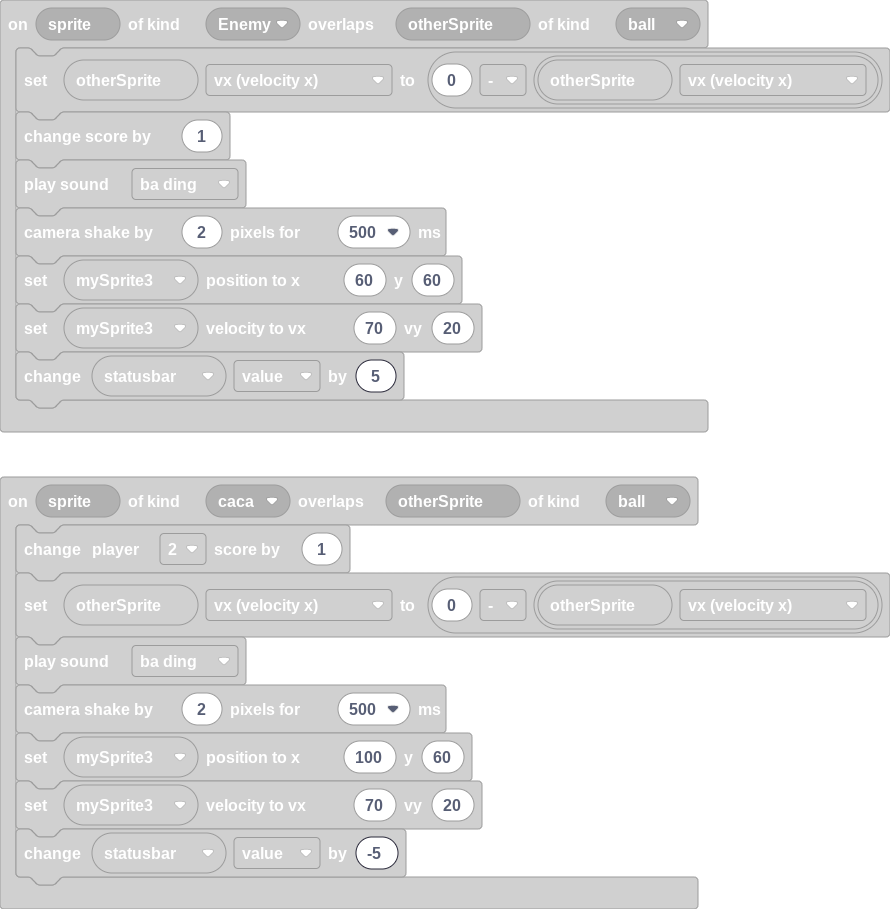
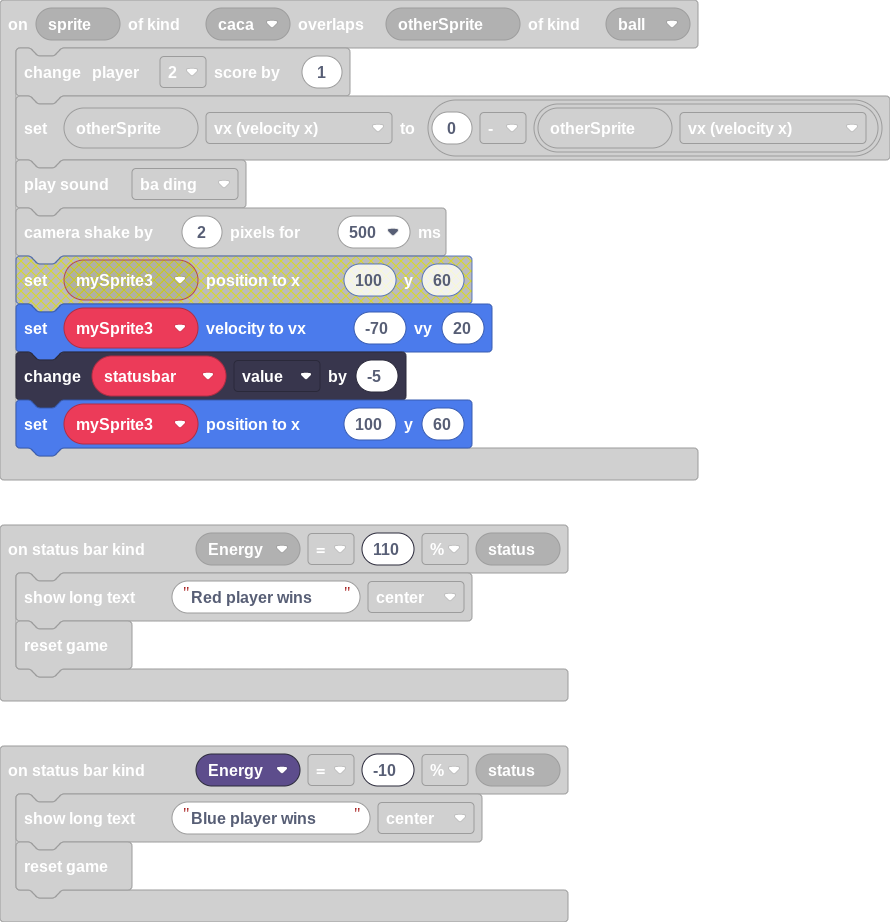
Update main.blocks, main.ts

diff --git a/main.ts b/main.ts
@@ -36,6 +36,10 @@ function create_left_mySprite () {
     controller.moveSprite(mySprite, 0, 150)
     mySprite.setStayInScreen(true)
 }
+statusbars.onStatusReached(StatusBarKind.Energy, statusbars.StatusComparison.EQ, statusbars.ComparisonType.Percentage, -10, function (status) {
+    game.showLongText("Blue player wins", DialogLayout.Center)
+    game.reset()
+})
 function create_right () {
     mySprite2 = sprites.create(img`
         . 1 1 1 1 1 
@@ -63,8 +67,8 @@ function create_right () {
     controller.player2.moveSprite(mySprite2, 0, 150)
     mySprite2.setStayInScreen(true)
 }
-statusbars.onStatusReached(StatusBarKind.Health, statusbars.StatusComparison.EQ, statusbars.ComparisonType.Percentage, 0, function (status) {
-    game.showLongText("Blue player wins", DialogLayout.Center)
+statusbars.onStatusReached(StatusBarKind.Energy, statusbars.StatusComparison.EQ, statusbars.ComparisonType.Percentage, 110, function (status) {
+    game.showLongText("Red player wins", DialogLayout.Center)
     game.reset()
 })
 function create_ball () {
@@ -90,17 +94,13 @@ sprites.onOverlap(SpriteKind.Enemy, SpriteKind.ball, function (sprite, otherSpri
     mySprite3.setVelocity(70, 20)
     statusbar.value += 5
 })
-statusbars.onStatusReached(StatusBarKind.Energy, statusbars.StatusComparison.EQ, statusbars.ComparisonType.Percentage, 100, function (status) {
-    game.showLongText("Red player wins", DialogLayout.Center)
-    game.reset()
-})
 sprites.onOverlap(SpriteKind.caca, SpriteKind.ball, function (sprite, otherSprite) {
     info.player2.changeScoreBy(1)
     otherSprite.vx = 0 - otherSprite.vx
     music.baDing.play()
     scene.cameraShake(2, 500)
     mySprite3.setPosition(100, 60)
-    mySprite3.setVelocity(70, 20)
+    mySprite3.setVelocity(-70, 20)
     statusbar.value += -5
 })
 sprites.onOverlap(SpriteKind.Player, SpriteKind.ball, function (sprite, otherSprite) {
